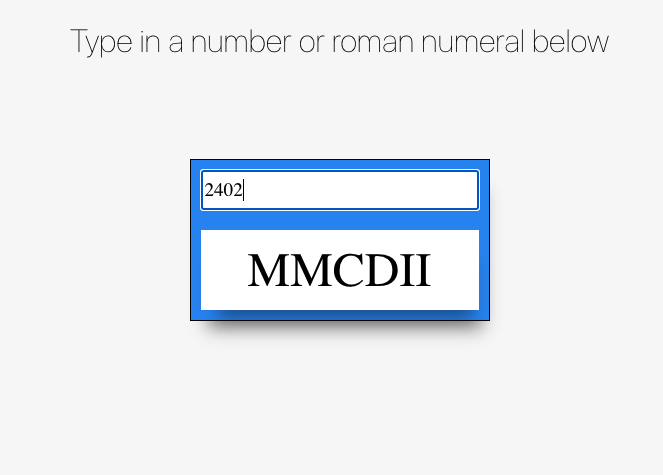
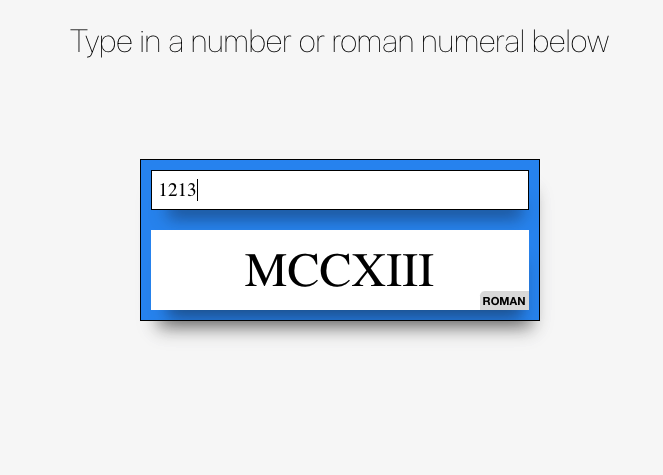
Add Roman, Numeric indicator, update screenshots

Changed region(s): [[0.2112, 0.3242, 0.8145, 0.7074], [0.362, 0.5305, 0.6637, 0.6189]]

diff --git a/src/App.css b/src/App.css
@@ -1,5 +1,5 @@
 .container {
-  width: 300px;
+  width: 400px;
   background-color: #4c8bf5;
   border: 1px solid #000000;
   margin: 100px auto;
@@ -11,14 +11,24 @@
 }
 
 .container input {
-  font-family: serif;
+  font-family: "serif";
   height: 40px;
   width: 100%;
   font-size: 1.2rem;
   text-transform: uppercase;
+  outline: none;
+  border: 1px solid #000000;
+  box-shadow: 0px;
+  transition: 0.5s;
+}
+
+.container input:focus {
+  -webkit-box-shadow: 5px 20px 17px -12px rgba(0, 0, 0, 0.38);
+  box-shadow: 5px 20px 17px -12px rgba(0, 0, 0, 0.38);
 }
 
 .container .output {
+  position: relative;
   font-family: serif;
   background-color: white;
   font-size: 3rem;
@@ -27,12 +37,27 @@
   display: flex;
   justify-content: center;
   align-items: center;
+  padding: 10px 5px;
+  text-align: center;
   margin-top: 20px;
   min-height: 80px;
   -webkit-box-shadow: 5px 20px 17px -12px rgba(0, 0, 0, 0.38);
   box-shadow: 5px 20px 17px -12px rgba(0, 0, 0, 0.38);
 }
 
+.container .output .indicator {
+  font-family: "Helvetica Neue";
+  font-size: 0.7rem;
+  position: absolute;
+  background-color: #dddddd;
+  font-weight: bold;
+  color: black;
+  text-transform: uppercase;
+  border-top-left-radius: 5px;
+  bottom: 0px;
+  right: 0px;
+  padding: 3px;
+}
 .container .outbound {
   background-color: pink;
   color: red;

diff --git a/src/App.tsx b/src/App.tsx
@@ -8,6 +8,7 @@ function App() {
   const [isOutBound, setIsOutBound] = useState(false);
   const [isFaultyRoman, setIsFaultyRoman] = useState(false);
   const [romanNumber, setRomanNumber] = useState<RomanNumerals>();
+  const [indicator, setIndicator] = useState("");
 
   const changeHandler = (event: any) => {
     const value = event.target.value;
@@ -38,6 +39,7 @@ function App() {
         const numeral = romanNumber.fromRoman(value);
         if (numeral > 0) {
           toggleError("Roman", false);
+          setIndicator("Numeric");
           setOutput(numeral.toString());
         } else {
           toggleError("Roman", true);
@@ -47,6 +49,7 @@ function App() {
         const roman = romanNumber.toRoman(parseInt(value));
         if (roman) {
           toggleError("Numeral", false);
+          setIndicator("Roman");
           setOutput(roman);
         } else {
           toggleError("Numeral", true);
@@ -71,7 +74,10 @@ function App() {
         />
 
         {output && !isOutBound && !isFaultyRoman && (
-          <div className="output">{output}</div>
+          <div className="output">
+            <div className="indicator">{indicator}</div>
+            {output}
+          </div>
         )}
 
         {isOutBound && (

diff --git a/README.md b/README.md
@@ -35,6 +35,7 @@ See the section about [deployment](https://facebook.github.io/create-react-app/d
 
 ### Screenshots
 
+![Home Page](screenshots/start.png)
 ![Home Page](screenshots/numeral-roman.png)
 ![Home Page](screenshots/roman-numeral.png)
 ![Home Page](screenshots/large-numeral-roman.png)
